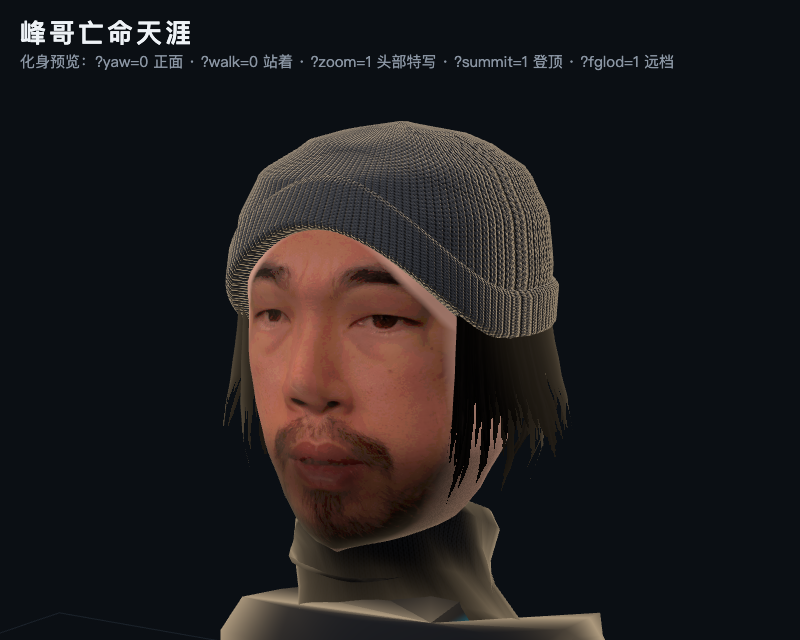
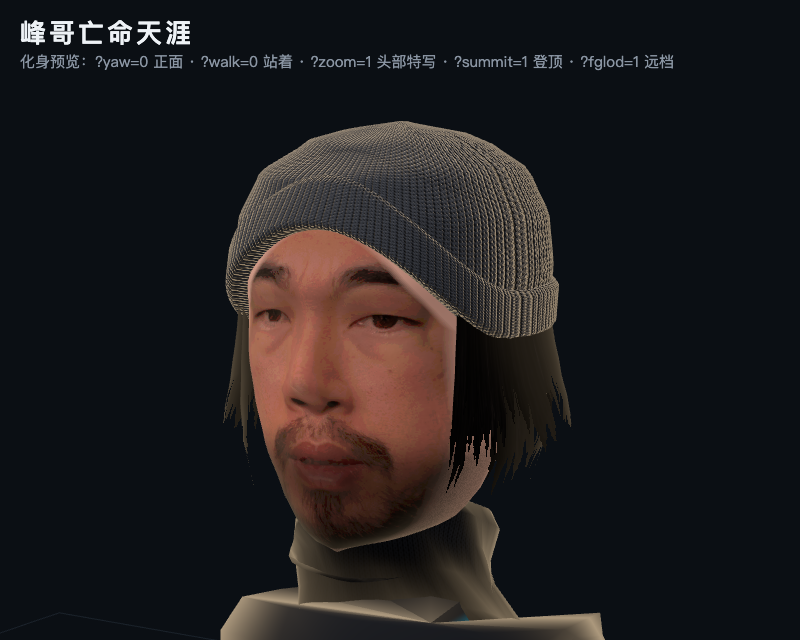
P 峰哥建模第 3 轮定稿：球球选 C（v2 改良）设为缺省——哑光材质、整张脸去饱和 35% + 6 阶色阶（照片和两侧肤色接得上、暖光下不发红），?fgstyle=v2 看旧的；删掉没选的 A / B 代码（留在 e1f2d23）；定稿截图 fengge_v3_C_*.png

diff --git a/docs/指挥板.md b/docs/指挥板.md
@@ -14,7 +14,7 @@
 | **V 峰哥语音** | `brain/tts.py`（新）、`shellos/agent/voice.py`（新）、`static/voice.js`（新）；`server.py` 只加 `/voice/*` 路由 | 峰哥解说（`App.fengge.last`）→ 语音播放；调研声音克隆方案（参考 YeJe-cpu/talk-to-fengge、w466747380/talk-to-fengge-live 的参考音频与方案），离线兜底 | ✅ **峰哥音色上线了**（总指挥 main 9c94e22）：主工作区 MiniMax 复刻成功，11 句兜底语录全部用 MiniMax 预生成（24 kHz）；`run.sh` 一起起 tts（8791），隧道多转了 8791；`game.html` 已引入 voice.js；端到端验证过（造山 → 兜底解说 → `/voice/last.wav` 回 24 kHz MiniMax 音频）。实时合成一句 4.2 / 7.8 / 10.2 s，MiniMax 超时定为 15 s，ShellOS 等 25 s。MiniMax 失败或断网时：本地缓存 → `say` 女声 → 不出声。**复刻做了两次（V 一次、总指挥一次），约 19.8 元** |
 | **C Claude 实测 + 部署** | `brain/claude_brain.py`、`shellos/agent/brain.py`、`shellos/agent/interpret.py`、`shellos/worlds/gen.py`、`scripts/eval_*.py`（新）、`brain/run.sh`（新） | 拿到 key 后实测：教练 23 句准确率 / 造山 10 句质量 / 延迟；调 prompt；本机大脑 + SSH 反向隧道到 MacBook 一键脚本；deploy 到 MacBook 联调 | **第 3 轮（merge main 之后，backend=minimax，全用 MiniMax-M3）**：**教练**最终版（提示词重写 + 温度 0.1）连跑 3 轮 × 36 句：23 句 23/23、23/23、22/23（失败的那 1 次是 MiniMax 超时两次 → 502，ShellOS 会退回规则表）；加试 7/7 ×3；**台阶 6 句** 5/6、4/6、6/6（最后一轮加了「下楼冲 / 砸 = impact，上楼费劲 = strength」的词表之后 6/6；台阶句的关键词因此进了提示词，已经不算完全没见过的题）；规则表在台阶句上 0/6。延迟 p50 1.7–2.3 s，p95 3.4–9.4 s，**超过 12 s 0 次**（加了 5 s 超时 + 重发 1 次；今天 MiniMax 抖得厉害，36 次里重发了 2–5 次）。**造山** 11 句（加了华山）：11/11 由模型生成，裁剪 2/11，p50 9.7 s，max 32.7 s，超过 20 s 的 2 次（加了 20 s 超时 + 重发；上一轮同一套 p50 7.0 / max 10.0，差别主要在 MiniMax 这一时段的负载）。华山 → dawn_mountain（cliff_path 还没到）。**峰哥**解说 1.0–3.9 s。**没退化**：合并后 23 句仍能全对。**impact**：terrain 加了参数 `impact` [1.0, 0, 1.5]，pulse_plot 在 strength 3.0 × impact 1.5 下检查 problems=[]（峰值按 CAP 裁到 3.0）。本轮约 310 次 live，约 ¥1.3（估算）。pytest 115 过，1 挂（同前，只在 worktree 里挂）。
 | **S 提交物 / 叙事** | `docs/提交/**`、README 的「项目介绍」段 | 改名峰哥亡命天涯；加蜂群（峰哥当年合伙的公司就叫「蜂群文化」）、一句话造山、峰哥解说；评委题库补：断网怎么办 / 安全员为何不用大模型 / 肖像与素材授权 | ✅ 第 6 轮（已 merge main 8215a79，未 push）：项目介绍 / 60 秒 / 4 分钟 / 题库 / 分镜 / 海报文案，另外 poster、onepager、README 开头段也跟上了。**手感**：上台阶 = 支撑期阻力（摆动期 0）、下台阶 = 落阶冲击 + 助力 + 摆动期帮迈腿，峰值按强度 3.0 / 软限 4 用 `terrain.pulse()` 算的（上坡 +3.0、下坡 −2.4、上台阶 −3.6、下台阶 −3.0 / +3.0 / −2.4、红灯 −1.5、lift −2.4 Nm）；`pulse_plot.py --strength 3.0`（CAP=4）重跑核对全过，新图 `截图/脉冲-上台阶-阻力.png`、`脉冲-下台阶-落阶冲击.png`，海报角图换掉了。**题库**加 D10 上楼为什么是阻力 / D11 落阶冲击会不会伤人 / D12 力波形是真的吗（答：是 Guard 发出的指令 `safety.sent`，不是测出来的力）；D9 改成「是捷风」：粉丝手办 Frojj123 CC BY 4.0、IP 属于 Riot 没授权、声音配音演员本人同意现场录（录音未到）。**4 分钟**主线不加跑酷 / 珠峰（时间不够），加「加演」表：珠峰走到北坳即可；跑酷真机没试通就只放模拟。60 秒正片不动结构，另列 15 s 花絮（珠峰 + 跑酷 + 捷风，角标「模拟」）。**大模型口径**：C 行说现在大脑跑的是 MiniMax-M3（Claude 等 key），材料里「教练 = Claude」都改成「大模型（Claude；没 key 时 MiniMax-M3）」，引 C 行实测（教练 23/23 p50 1.6 s、造山 p50 7.0 s、解说 0.9–2.2 s）。**要总指挥确认 / 处理**：① 软限 4 Nm、强度 3.0 仓库里没有出处（`--cap` 缺省 3、Terrain 缺省 1.5），材料写成「总指挥 9/23 转达」；**换人 / 演示复位会把强度重置回 1.5**（`demo_reset` 里 `Terrain()`），4 分钟脚本开场前清单加了「换完人调回 3.0」，建议改代码缺省或 run-mac.sh；② 经验卡 `source` MiniMax 也写 `claude`，建议改成 `llm` 或带模型名；③ README 正文安全表、架构 v3 还写软限 3 Nm / 旧台阶手感（不归 S）；④ `ui_play_force.png`、`游戏-东京天桥-v2.jpg` 是台阶反过来 / 新 HUD 之前拍的，要重拍。验收：printToPDF 海报两版各 1 页、一页纸两版各 2 页，逐页看过不截断 |
-| **P 峰哥建模**（分支 claude/vibrant-ritchie-f949b4） | `static/game/fengge.js`、`static/game/lod.js`（新，第 2 轮）、`tests/test_game_lod.py`（新）、`static/fengge.html`、`static/models/fengge_face_hd.jpg`（新）、`docs/提交/素材授权.md`（新，和 J 线那份表头一样，合并时两边的行拼起来）、`docs/提交/截图/fengge_v2_*.png`；**avatar.js / engine.js / fengge.html 都没改** | 峰哥在正面镜头（V / `?cam=front`）近景下好看、一眼认得出：立体头型、针织帽、胡子头发、户外穿搭，外骨骼保留 | ⏳ **第 3 轮 候选造型，等球球挑**（未 push）：球球说 v2「还是太丑」。三个候选都用 `?fgstyle=A|B|C` 切换，缺省还是 v2（`FENGGE_LOOK.style`），挑定后只改这一个值。骨骼、A2 的动作、LOD、登顶大拇指全都照旧。**A 平涂卡通**：照着照片手绘成扁平色块（眯眯眼、一字粗眉、八字胡连山羊胡、下巴一圈胡茬），和照片一样正投影贴上去；五官起伏减到 0.45，脸宽 ×1.08，头 0.29 m（Q 一点）。**B 低多边形雕塑**：平面着色，脸按块平涂；五官不画，做成贴在脸上的几何片（按脸面起伏逐点贴）；帽子、头发（发梢锯齿）、围脖、身体都是平面着色，和泰山松、岩石一个路子。近档只多 1.4k 三角（v2 / A / C 多 10.3k）。**C v2 改良**：还是照片，去饱和 30%、压成色阶，改成哑光材质。试过三阶卡通光（MeshToonMaterial）：背光面不变暗，泰山拂晓的暖光下 A 成了发光的橙色面具，所以 A / C 都用和身体一样的哑光（Lambert）。顺手按 ART 附录 A 把胸前青色压暗到 `#1d7d88`。**截图**：`截图/fengge_v3_candidates.png`（总览，每行 正面 / 30° / 侧面 / 走路 / 泰山正面镜头），单张在 `fengge_v3_{A,B,C}_{front,30,side,walk,game}.png`。**不理想**：预览页没有色调映射，脸偏橙，以游戏截图为准；B 的眼睛和眉毛近看是几块小黑片，远看才像；三个里没有一个做到「侧脸也像本人」，要等本人侧脸照片。<br>| ✅ **第 2 轮（未 push）**：① **LOD**：峰哥头 / 帽 / 头发造了两档，按头离镜头的距离切换（`THREE.LOD`，3.6 m，回差 10%）：正面镜头约 2.4 m 用近档（和 v2 一样，1.07 万三角），跟拍约 5 m、登顶环绕用远档（约 1.8k 三角）。30° 特写两档几乎看不出差别（`截图/fengge_lod.png`，左近右远），`?fglod=0/1` 可以固定用近档或远档。实测（`scripts/dom.mjs`，1920×1080，`npc=0`，面数按 dom.mjs 报的原样记，现在每帧要画两遍（光影线的后期），所以比 v2 那时大）：东京 pos 18 跟拍 +2.6k/帧（v2 是 +10.6k），泰山 pos 14 正面 +20.5k/帧；两处绘制次数和 `?fengge=0` 一样（149 / 106）。**捷风雕像**归 J，我只出了工具 `game/lod.js` 的 `simplify(geo, cell)`（顶点聚类，4.4 万三角 → 1.48 万三角，38–46 ms）和方案（见留言）。② **登顶「这是个好事儿啊」**：包一层 A2 的 animate（A2 同意由 P 维护），程度直接读 `av.body.P.cheer`：先点两下头，再多仰 6°、往一侧歪 8°；右臂把 V 字挥手换成**举在头侧的大拇指**。CesiumMan 的手是连指手套，没有手指骨，所以登顶时右手在着色器里藏掉，换成拳头 + 朝天的拇指；登顶镜头多从背后拍（泰山是定机位），举在头侧前后都看得见。照片嘴角往上挪约 7 px（很轻：怕真人脸变形）。顺手：手改成肤色（峰哥没戴手套），手腕上的深色小球藏了。截图 `截图/fengge_summit_front.png`、`fengge_summit_back.png`、`fengge_summit_game.png`（泰山登顶，从背后拍）。③ **v3 照片**：`data/fengge_photos/` 还没有照片，照片到了再做（后台在盯这个目录）。**踩坑**：v2 和这轮各有一次在 `FENGGE_LOOK` 一行中间插注释，把后面的颜色吞了（帽子 / 鞋变白），都在截图里发现后修了。<br>✅ **第 1 轮 v2（已合 main）**。**底模没换**，还是 CesiumMan，骨骼一根没加没改（名字 / 层级 / 绑定姿态原样）：A2 的动作是按 CesiumMan 骨骼名和逐根量过的转轴调的，换 Quaternius 这些都得重量，比赛前不值。把 A2 的 baf464a 临时叠上来跑过 `/game?…&cam=front`、`cam=side`：前倾、转头、围脖都正常（验完还原了，没带进分支）。**头**：放样几何（下巴到头顶 40 层截面 + 鼻梁 / 鼻翼 / 眼窝 / 眉弓 / 颧骨 / 嘴唇 / 下巴起伏），单位是参考照片的像素，照片（原图重新裁的 400×540，比旧的 272×384 清楚）按正前方正投影贴上去，五官自然对上；转开 60° 以上淡出成肤色 / 胡茬（带颗粒），后脑下半是发色。**帽子**：翻边 + 帽身，canvas 画的罗纹 V 字针脚（贴图 + 凹凸），帽檐线按照片（前额压到眉毛上方，两侧压过耳朵）。**头发**：帽子底下两侧 + 后脑两层发片，往下蓬、一绺一绺收尖（照片里就是齐下巴的头发撑在两边）。**围脖**：照片里的黑色抓绒围脖，挂脖子骨，转头不跟着转。**衣服**：包一层化身原来的分区材质：深灰速干衣 + 胸前 / 背后青色竖条纹 V 字拼色（照片里的户外打底衫，**没画任何 logo**）、袖子外侧青线、青色袖口、手套、深色长裤、登山鞋；身材沿法线鼓 0.4–1.2 cm。头放大到 0.25 m（身高的 1/5.8）、下巴压低 4 cm，不然正面镜头 2.4 m 外脸太小、脖子太长。**开销**（`scripts/dom.mjs`，1920×1080）：东京 pos 18 跟拍 73 次绘制 / 83.5k 三角形，`?fengge=0` 71 / 72.9k；泰山 pos 14 正面 49 / 243.9k vs 47 / 233.3k → **+2 次绘制、+10.6k 三角形**（v1 是 +3 / +4.4k），贴图多一张 400×540 + 两张 128² canvas；FPS 没在 M2 上测。**截图**（对比 `fengge_v2_compare.png`，左旧右新）：`fengge_v2_front / left30 / right30 / side / back.png`（`/fengge?zoom=1&walk=0&yaw=…`）、`fengge_v2_walk.png`（全身走路）、`fengge_v2_game_front.png`（`/game?preview=taishan_18pan&pos=14&cam=front`）、`fengge_v2_night_front.png`（东京 pos 18 正面，夜里脸看得清）。截图是无头 Chrome 按真实时间等 `data-ready` 再截的（swiftshader，内置浏览器面板没显示截不了）。**不理想**：照片是强光自拍，预览页里脸偏橙红；侧脸靠几何 + 肤色，耳朵被头发盖住没做；近看帽子针脚是规则的；东京的青色轮廓光把深色衣服整片染青，胸前拼色没白天明显 |
+| **P 峰哥建模**（分支 claude/vibrant-ritchie-f949b4） | `static/game/fengge.js`、`static/game/lod.js`（新，第 2 轮）、`tests/test_game_lod.py`（新）、`static/fengge.html`、`static/models/fengge_face_hd.jpg`（新）、`docs/提交/素材授权.md`（新，和 J 线那份表头一样，合并时两边的行拼起来）、`docs/提交/截图/fengge_v2_*.png`；**avatar.js / engine.js / fengge.html 都没改** | 峰哥在正面镜头（V / `?cam=front`）近景下好看、一眼认得出：立体头型、针织帽、胡子头发、户外穿搭，外骨骼保留 | ✅ **第 3 轮：球球选了 C（v2 改良），已设成缺省**（未 push）。球球说 v2「还是太丑」后做了三个候选：A 平涂卡通、B 低多边形雕塑、C v2 改良（总览 `截图/fengge_v3_candidates.png`）。球球挑了 C，A、B 的代码删了（见 git e1f2d23，要回头看用那个提交）。**C 的做法**：还是照片正投影，五官起伏减到 0.8，头 0.26 m，头 / 帽 / 头发 / 围脖都改成和身体一样的哑光材质（Lambert）。照片和两侧肤色混好之后，整张脸一起去饱和 35%、压成 6 阶色阶：脸不那么「照片」，和两侧肤色也接得上，泰山暖光下不再发红。`?fgstyle=v2` 能看回旧的。试过三阶卡通光（MeshToonMaterial）：背光面不变暗，暖光下整张脸成了发光的橙色面具，没用。顺手按 ART 附录 A 把胸前青色压暗到 `#1d7d88`。骨骼、A2 的动作、LOD、登顶大拇指都照旧。**定稿截图**：`截图/fengge_v3_C_front / 30 / side / walk / summit.png`（`/fengge` 预览）、`fengge_v3_C_game.png`（泰山 pos 14 正面）、`fengge_v3_C_night.png`（东京 pos 18 正面）。面数和 v2 一样（泰山正面比 `?fengge=0` 多 10.3k 三角，绘制次数不变）。**不理想**：转头还是能看出脸是贴上去的，侧脸只靠几何 + 肤色；要侧脸也像，得等本人侧脸照片（`data/fengge_photos/` 还是空的，后台在盯）。<br>| ✅ **第 2 轮（未 push）**：① **LOD**：峰哥头 / 帽 / 头发造了两档，按头离镜头的距离切换（`THREE.LOD`，3.6 m，回差 10%）：正面镜头约 2.4 m 用近档（和 v2 一样，1.07 万三角），跟拍约 5 m、登顶环绕用远档（约 1.8k 三角）。30° 特写两档几乎看不出差别（`截图/fengge_lod.png`，左近右远），`?fglod=0/1` 可以固定用近档或远档。实测（`scripts/dom.mjs`，1920×1080，`npc=0`，面数按 dom.mjs 报的原样记，现在每帧要画两遍（光影线的后期），所以比 v2 那时大）：东京 pos 18 跟拍 +2.6k/帧（v2 是 +10.6k），泰山 pos 14 正面 +20.5k/帧；两处绘制次数和 `?fengge=0` 一样（149 / 106）。**捷风雕像**归 J，我只出了工具 `game/lod.js` 的 `simplify(geo, cell)`（顶点聚类，4.4 万三角 → 1.48 万三角，38–46 ms）和方案（见留言）。② **登顶「这是个好事儿啊」**：包一层 A2 的 animate（A2 同意由 P 维护），程度直接读 `av.body.P.cheer`：先点两下头，再多仰 6°、往一侧歪 8°；右臂把 V 字挥手换成**举在头侧的大拇指**。CesiumMan 的手是连指手套，没有手指骨，所以登顶时右手在着色器里藏掉，换成拳头 + 朝天的拇指；登顶镜头多从背后拍（泰山是定机位），举在头侧前后都看得见。照片嘴角往上挪约 7 px（很轻：怕真人脸变形）。顺手：手改成肤色（峰哥没戴手套），手腕上的深色小球藏了。截图 `截图/fengge_summit_front.png`、`fengge_summit_back.png`、`fengge_summit_game.png`（泰山登顶，从背后拍）。③ **v3 照片**：`data/fengge_photos/` 还没有照片，照片到了再做（后台在盯这个目录）。**踩坑**：v2 和这轮各有一次在 `FENGGE_LOOK` 一行中间插注释，把后面的颜色吞了（帽子 / 鞋变白），都在截图里发现后修了。<br>✅ **第 1 轮 v2（已合 main）**。**底模没换**，还是 CesiumMan，骨骼一根没加没改（名字 / 层级 / 绑定姿态原样）：A2 的动作是按 CesiumMan 骨骼名和逐根量过的转轴调的，换 Quaternius 这些都得重量，比赛前不值。把 A2 的 baf464a 临时叠上来跑过 `/game?…&cam=front`、`cam=side`：前倾、转头、围脖都正常（验完还原了，没带进分支）。**头**：放样几何（下巴到头顶 40 层截面 + 鼻梁 / 鼻翼 / 眼窝 / 眉弓 / 颧骨 / 嘴唇 / 下巴起伏），单位是参考照片的像素，照片（原图重新裁的 400×540，比旧的 272×384 清楚）按正前方正投影贴上去，五官自然对上；转开 60° 以上淡出成肤色 / 胡茬（带颗粒），后脑下半是发色。**帽子**：翻边 + 帽身，canvas 画的罗纹 V 字针脚（贴图 + 凹凸），帽檐线按照片（前额压到眉毛上方，两侧压过耳朵）。**头发**：帽子底下两侧 + 后脑两层发片，往下蓬、一绺一绺收尖（照片里就是齐下巴的头发撑在两边）。**围脖**：照片里的黑色抓绒围脖，挂脖子骨，转头不跟着转。**衣服**：包一层化身原来的分区材质：深灰速干衣 + 胸前 / 背后青色竖条纹 V 字拼色（照片里的户外打底衫，**没画任何 logo**）、袖子外侧青线、青色袖口、手套、深色长裤、登山鞋；身材沿法线鼓 0.4–1.2 cm。头放大到 0.25 m（身高的 1/5.8）、下巴压低 4 cm，不然正面镜头 2.4 m 外脸太小、脖子太长。**开销**（`scripts/dom.mjs`，1920×1080）：东京 pos 18 跟拍 73 次绘制 / 83.5k 三角形，`?fengge=0` 71 / 72.9k；泰山 pos 14 正面 49 / 243.9k vs 47 / 233.3k → **+2 次绘制、+10.6k 三角形**（v1 是 +3 / +4.4k），贴图多一张 400×540 + 两张 128² canvas；FPS 没在 M2 上测。**截图**（对比 `fengge_v2_compare.png`，左旧右新）：`fengge_v2_front / left30 / right30 / side / back.png`（`/fengge?zoom=1&walk=0&yaw=…`）、`fengge_v2_walk.png`（全身走路）、`fengge_v2_game_front.png`（`/game?preview=taishan_18pan&pos=14&cam=front`）、`fengge_v2_night_front.png`（东京 pos 18 正面，夜里脸看得清）。截图是无头 Chrome 按真实时间等 `data-ready` 再截的（swiftshader，内置浏览器面板没显示截不了）。**不理想**：照片是强光自拍，预览页里脸偏橙红；侧脸靠几何 + 肤色，耳朵被头发盖住没做；近看帽子针脚是规则的；东京的青色轮廓光把深色衣服整片染青，胸前拼色没白天明显 |
 | **J 疾风 NPC**（追兵，致敬版） | `static/game/npc.js`（新，行为）、`static/game/npc_jifeng.js`（新，造型 / 特效）；`engine.js` 只加 import + 1 行 init；`brain/tts.py` 加 `voice` 参数 + `--npc`；`shellos/agent/voice.py` 加 `NPC_VOICE` / `NPC_LINES`、缓存分目录；`server.py` 加 `/voice/npc.wav`（在 `/voice/*` 里）；`docs/提交/素材授权.md`（新） | 原创风系追兵：跟在玩家身后，步频决定远近，走慢了冲刺逼近（前倾 + 拖尾 + 风刃 + 喊一句），走快了被甩开，红灯她也站定；登顶结局「抓到你了」/「被你甩掉了」；只读 /state，不碰任何控制接口；`?npc=0` 关 | **第 5 轮 · 捷风 STL 雕像接进游戏 ✅**：Sketchfab 要登录，没用。改用 Thingiverse thing:4326703（作者 Frojj123，CC BY 4.0，粉丝原创的 3D 打印手办，不是游戏提取），总指挥放在主工作区的 `models/jett/jett.stl`（已被 git 忽略）。① `vendor/STLLoader.js`：本机只有 three **0.169** 官方包里的 STLLoader（0.160 不在 npm 缓存里；为了一个文件下整个包就没下）。它引用的 BufferAttribute / BufferGeometry / Color / FileLoader / Float32BufferAttribute / Loader / Vector3 / SRGBColorSpace 在 r160 里都有，实测能正常解析。② 加载：先 `mergeVertices`（STL 每个三角形各存 3 个点，不合并的话法线是平的），Z 朝上转成 Y 朝上，缩放到化身身高、脚底落地；这个 STL 本来就面朝 +X，所以 `yaw = 0`（4 个角度截图确认过：站姿、双臂下垂、没有底座），再 `computeVertexNormals` 让表面平滑。③ 按区域烘顶点色：靴 < 8%、腿 < 54%、外套 < 80%，80–93.5% 里朝前的算脸（肤色），其余算头发（白）；36–56% 高度、离中线 > 0.19 的算手套（深色）。材质是 Lambert 加自发光打底 30%、再加菲涅尔轮廓光，东京夜景里看得清。边界都在 `npc_jifeng.js` 的 `STATUE` 表里，对着截图调过。④ 动作「风系飘行」：离地 7 cm 浮着，走的时候上下起伏 ±5 cm，停下来慢慢起伏 ±3 cm，再加一点呼吸（身高缩放 ±1.2%）；前倾 0.03，走的时候 +0.1，冲刺再 +0.32 rad；冲刺时拖尾拉长（历史点间距 5 → 15 cm，最长约 3.6）+ 风刃；追上的那一下绕一个 1 s 的小弧（往前 0.35 步、往玩家那边切 0.3、身体跟着转）再站定；登顶被甩时弯腰。优先级：`scene.gltf` → `jett.stl` → 原创造型，都没有也不会报错。⑤ 性能：+7 次绘制、+4.4 万三角（东京预览 84 次 / 7.7 万 → 91 次 / 12.2 万）。无头 Chrome 走 GPU 的帧率噪声太大（同样没有 NPC，两次分别是 30.1 和 45.6），看不出雕像带来的差别，所以**没抽稀**；展位 M2 上要是掉帧，再加载时抽稀，或者远处换原创造型。⑥ 截图 `docs/提交/截图/npc_jett_stl_*.png`：preview（东京天桥冲刺）、front（正面看配色）、slow_1~6（`--sim` 泰山 80 步/分：gap 2.50「가자」→ 1.45「就这？빨리빨리」→ 0.70 追上、绕弧、「回头看看？我在这儿。」）、fast_1~3（130 步/分：2.76 → 4.69 甩开「哟，跑挺快嘛。」）、summit（登顶抓到「又是我先到，拜。」）。⑦ 素材授权.md：模型那一行改成 Thingiverse / Frojj123 / CC BY 4.0、粉丝原创手办、角色 IP 属于 Riot、不进 git；Sketchfab 那一行写「未采用（要登录）」。<br>**第 4 轮 · 方案 A：改名「捷风」+ Sketchfab 模型（没用上，要登录）**：球球知情后决定推翻「原创致敬版」（总指挥转达）。① `角色名` 缺省改成「捷风」，代码注释里的疾风也都改了；文件名、变量名没动。② `.gitignore` 加了 `shellos/ui/static/models/jett/`（用占位文件验过会被忽略）。deploy.sh 的 rsync 没有读 .gitignore，只排除了 .git / .venv / recordings 这些，所以模型会同步到展位机。③ `npc_jifeng.js` 用 GLTFLoader 读 `/models/jett/scene.gltf`：缩放到化身身高、脚底落地、正面转到 +X，贴图顺便当自发光打底，夜景里不会黑成一团。骨骼按名字匹配（thigh / upleg / leg、calf / knee、upperarm / arm、spine、head），左右按绑定姿态的位置分，摆动轴换算到每根骨骼自己的局部坐标，不依赖骨架的命名和轴向；T 字姿势的上臂自动放下 70°。自带的格斗站姿在「追上后站定」和「登顶抓到」时播放。模型 404、坏文件或者找不到腿骨，都**静默退回原创造型**，页面不报错（验过：没有模型时是原创造型，errlog 空）。**用 CesiumMan 冒充外部模型（`?npcmodel=/models/CesiumMan.glb`）把通用骨骼匹配走了一遍**：侧面看跑步姿势方向正确，前倾、大腿前摆、小腿后折、手臂反向摆。调试参数：`?npcmodel=` 换模型、`?npcmodel=0` 强制原创、`?npcyaw=` 修正朝向。⚠ 服务器 `_static` 给 .gltf / .png / .bin 回的是 application/octet-stream，按理不影响 GLTFLoader 解码，模型到了再实测。④ 素材授权.md 照实改了：模型来自 BojanV06（标 CC-BY，原始 IP 属于 Riot，很可能是游戏提取），球球知情后用于非商业黑客松展示，不进 git、不公开分发；角色名「捷风」属于 Riot 的 IP；原创造型只做退路。语音那一行来源不变，只把「外形和名字仍然原创」这句过期的说法改掉了。录音台词单里的同意示范句也改成了「角色『捷风』」。⑤ 「名字写错了」：等总指挥问清楚是角色名还是配音演员名（J 线的文件里没写配音演员的名字）。<br>**第 3 轮 · 配音演员本人现场录（等录音）**：本人当面同意（总指挥转达，记在留言里）。界限：只用本人**现场新录**的声音，不用游戏音频，不念游戏原台词；外形和名字仍然原创。① 录音台词单 `docs/提交/疾风录音台词单.md`（已发总指挥转球球）：原来的 6 句 + 新写的 5 句（被甩开 2「喂！我还没热身呢。」、追上 2「回头看看？我在这儿。」、红灯一起停「红灯。站好，我也不动。」、绿灯「绿灯了，가자！」、登顶嘲讽「山顶风大，站稳了。」），每句标了情绪，再加 30–60 s 自由说话；录音要求和同意视频的提醒都写在里面。② 接收：`brain/npc_intake.py` 读主工作区 `data/voice/npc_raw/`（`01~11.*` 一句一个文件，或者整段录、按 ≥0.9 s 的停顿切；`free.*` 是参考音频），用 ffmpeg 解码，按停顿切句、取最后一遍、去掉首尾静音，响度归一到 RMS −18 dBFS、峰值 ≤ −1 dBFS，输出 24 kHz 单声道 16 bit，放进 `data/voice/npc/real/`；每一段另存到 `npc_takes/`，自动挑的不满意可以用 `--use 09 <文件>` 换。`free.*` 转成 `data/voice/ref/jifeng_ref.m4a`。`/voice/npc.wav` **真人录音优先**，没有的再合成。已经有复刻 ID（`data/voice/npc_voice_id`）就用复刻音色，没有才用预设候选。③ 复刻：`tts.py --clone-npc`（9.9 元，**问过球球、确认后才跑**；`clone()` 改成可以传参考音频 / ID 文件 / 前缀，峰哥的行为不变）。游戏里 LINES 改成一个事件可以有好几句、随机挑一句，新增红灯 / 绿灯事件。用 `say` 生成的假录音走通了一遍：整段两遍切成 2 段、用最后一遍，输出 24 kHz / 1 ch / Int16，参考音频 16 s → m4a。test_voice 14 过（新增：真人优先不再合成；切句 + 归一化 + 输出格式）。素材授权.md 已写明「本人当面同意、现场新录、不是游戏素材」。<br>**第 2 轮 · 音色候选（等球球挑）**：第一版「清脆少女」球球说一点都不像。界限没变：不复刻捷风中文配音（真人）、不用游戏音频。从官方系统音色（国内站 get_voice 拉的 303 个）里挑了 4 个，都调了语速 / 音高 / 情绪：**A 嚣张小姐** `Arrogant_Miss`（1.2 / +1 / happy）、**B 韩语冷漠女孩** `Korean_ColdGirl`（1.25 / +1 / disgusted）、**C 韩语女冒险家** `Korean_BraveAdventurer`（1.25 / +2 / angry）、**D 俏皮萌妹** `qiaopi_mengmei`（1.3 / −1 / surprised）。台词重写成嘴欠刺客味，原创，夹通用韩语感叹词：가자！你先跑三秒。/ 就这？빨리빨리！/ 逮到了，慢死了。/ 哟，跑挺快嘛。/ 又是我先到，拜。/ 啧，算你走运。试听用其中 4 句，每个候选同样 4 句，一共 16 条全部成功，200 计费字符（约 $0.02）。文件在主工作区 `data/voice/npc_candidates/<候选名>/1~4.wav`（不进 git）。试听：`cd data/voice/npc_candidates && for d in */; do echo "== $d"; for f in "$d"*.wav; do afplay "$f"; done; sleep 1; done`。**选定后**：`voice.py` 里 `NPC_VOICE` 的缺省改成那个候选名，再跑 `brain/tts.py --npc`，只有 2 句要新合成，另外 4 句试听时已经进了缓存。在那之前，缺省还是清脆少女，新台词会现场合成。代码改动：`voice` 参数可以传完整的 voice_setting 字典（tts.py 只收 voice_id / speed / pitch / vol / emotion 这几个字段），带 NPC 音色时 `language_boost=auto`；`tts.py --npc-candidates`；新增测试 1 条（字段透传、auto、参数不同缓存分开），test_voice 13 过。<br>✅ 第 1 轮：分支 `claude/recursing-gould-f7e62a`（未 push、未合 main）。**造型**：复用 CesiumMan 换装（深蓝腿、蓝外套、白头）+ 往后吹的白发（6 个锥，合成一个网格）+ 白色高领，冲刺时 3 条加色拖尾 + 两道绕腰的月牙风刃，「抓到」时脚下一圈风环。没用 Quaternius：多一个 glb，骨骼名不一样，pose 接不上。角色名是 `npc_jifeng.js` 顶上的 `角色名` 常量（缺省「疾风」，也可以临时 `?npcname=`）。**行为**（`npc.js` 顶上的 `NPC` 表）：落后 gap 步，起始 2.5；走的时候 gap 每秒变化（步频 − 100）/ 40 步；站着不走（不是红灯）每秒贴近 0.4 步；**红灯 gap 冻住**、不冲刺、不喊；gap ≤ 0.7 算追上，≥ 4.5 算甩开（她藏到镜头后，左下角留「疾风 ↓ 落后 N 步」）；登顶时 gap < 3 →「抓到你了」，她冲到玩家左后侧 + 风环，否则「被你甩掉了」，停在原地弯腰喘气；登顶卡收起后 gap 回到 2.5。她走左侧路沿（横向 +0.85），不和右边的影子叠在一起。距离按真实时间积分，掉帧也不会追得慢。**声音**：MiniMax 系统预设音色 `Chinese (Mandarin)_Crisp_Girl`（官方系统音色列表里的，不是复刻，不花 9.9），台词原创 6 句：风起了 / 别停 / 追上你了 / 等等我 / 抓到你了 / 被你甩掉了；`/voice/npc.wav?t=` 只念这 6 句白名单，别的回 204；缓存 `data/voice/npc/`，和峰哥的分开。在主工作区 brain 目录用 `brain/.env` 的 key 真跑了一次 `tts.py --npc`：6 句全部成功，42 个计费字符，每句 1.0–1.3 s，wav 已经放进主工作区 `data/voice/npc/`（deploy 时跟着 data/voice 一起同步）。?voice=0 静音，预览不出声。**验收**：`pytest` 108 过 1 挂（worktree 里没有录制文件的那条 stress，和以前一样；新增 2 条：白名单 + 分目录缓存、预设音色不需要复刻）。截图（1080p，无头 Chrome 走 Metal GPU，swiftshader 一帧要 40–90 s，没法连拍）在 `docs/提交/截图/`：`npc_preview.png`（东京天桥、冲刺、「别停」）；`--sim` 泰山 80 步/分 `npc_sim_slow_1~3`（gap 2.50「风起了」→ 1.67「别停」→ 0.70「追上你了」，从起步到追上 5.8 s）；130 步/分 `npc_sim_fast_1~3`（3.37 → 4.80「等等我」→ 5.50 甩开，3.7 s 甩开）；东京红灯 80 步/分 `npc_sim_red_1~2`（第 4 步红灯站住，gap 1.39 连续 7 s 不变）；`npc_summit_caught.png` / `npc_summit_shaken.png`（登顶两种结局）。**性能**：东京预览加 NPC 前后是 84 → 93 次绘制，77.3k → 82.5k 三角形（+9 次、+5.2k）。`?npc=0` 时没有 NPC 也没有标签（验过）。**没做到**：A2 的动画没接（接口写在下面的留言里）；红灯时她停在路左侧，镜头在左后方，偶尔会挡住化身的一部分；登顶环绕镜头下她的名字牌位置是按头顶投影算的，离得近时会偏高 |
 | **R 跑酷**（球球的屋顶跑酷，分支 claude/distracted-darwin-3d3c88） | `static/parkour.html`、`static/parkour/**`（`logic.js` 纯逻辑 / `city.js` 场景 / `main.js`）、`tests/test_parkour.py`（新）；`server.py` 只加 `/parkour` 路由 + `/parkour/` 静态前缀（3 行） | 独立新页 `/parkour`：第三人称跟跑 · 夜里城市屋顶 · 峰哥 · 无尽模式撞 3 次结束（球球 9/23 选的都是推荐项）。步频 = 跑速，高抬腿 = 跳，双腿下蹲 = 滑铲，键盘 ←→ 换道；疾风在后面追 | **v1 能玩，未 push**。**玩法**：3 条道，楼缝 / 空调外机（跳）、晾衣杆（蹲）、水箱（换道）、斜板上更高的楼；步频 → 速度 0.075 m/s 每步/分（100 → 27 km/h，200 封顶 54 km/h）；疾风开局站你身边喊「가자！你先跑三秒。」，3 s 后开追，速度随距离涨（1000 m 时 ≈ 步频 137），追上算撞一次；高抬腿或回车再来一局，最好成绩存 localStorage。**腿**：屈髋减 A2 学出的零点（`av.body.off`），一条腿 > 45° 且还在抬、另一条 < 30° = 跳；两条都 > 35° = 滑铲；走满 5 s 才开（零点没学出来前穿戴偏屈 15–20°，会误触发）。阈值在 `logic.js` 的 `TUNE`，现场可以用 `?jump=&slide=&vjump=` 调。node 测试：正常走路 20 s 0 次误触发。**腿上的力**：只调 `POST /terrain/force`：斜板 = `up`，落地 0.5 s = `down`，前方 0.9 s 内要跳 = `lift`（只在摆动期帮抬腿；9/23 台阶力反过来后从 `stairs_up` 换过来），其余 null；非 null 带 ttl 1 s、每 300 ms 续；大小仍归 Guard + R2。页面失焦 / 隐藏 / 关掉 / 一局结束 / 没开跑都回 null（实测失焦 2 ms、切走 39 ms 服务端就是 null）。**没兜住**：浏览器崩了（SIGKILL，pagehide 不触发）force 会留在最后那个值，见留言。**验收**：`--sim` 自动驾驶（`?auto=0.95`，每个障碍 95% 躲）完整一局 126 s / 1203 m，连拍 9 张 `docs/提交/截图/parkour_01_title` … `parkour_09_over.png`（开场 → 跳 → 换道 → 滑铲 → 跑 → 疾风逼近 → 撞 1 / 撞 2 → 被疾风抓住），这局 force 出现过 null / up / stairs_up / down（当时起跳前用的还是 stairs_up，现在换成 lift）。**性能**：这台开发机是 2017 款 AMD Radeon Pro 555（没有 M2 可测），无头 Chrome 走 Metal、1920×1080：**60 fps（到顶）**，`?fx=low` 也是 60；绘制 ≤ 102 次、≤ 3 万三角。最大的坑是 HUD 面板的 `backdrop-filter: blur`（34 → 60 fps 就差它），已去掉；fx=low 降分辨率到 0.75 反而更慢，改成只关抗锯齿 + 远景楼减半。pytest 114 过（worktree 缺 `data/recordings/synthetic-walk.csv`，那条 stress 借主工作区的文件软链后才过，和以前一样）。**没做**：真机没穿过，高抬腿 / 下蹲阈值只按 A2 录制的量级估的；没有峰哥解说 / 金币 / 排行榜 |
 | **L 光影** | `static/game/lighting.js`（新）、`static/vendor/postprocessing/`、`static/vendor/shaders/`（three 0.160 官方包原样拷，不走 CDN）；`engine.js` 只动 3 处（import、渲染器 antialias 那行 + `makeLighting()`、`renderer.render` → `lit.render(ctx, A, s, summit)`） | 电影感光影 + 守住帧率 | ✅ **主题文件一行没改**，按 `theme.style` 在 lighting.js 里配。**管线**：场景照旧在着色器里编码成 sRGB 写进半浮点 4×MSAA 目标（半透明的雾、雨、影子照旧在 sRGB 空间混合，主题调好的样子不变）→ 泛光（阈值按最亮通道，霓虹 / 灯 / 日轮过线、白衣化身不糊）→ 光束（有 `sunGlow` 的泰山 / 富士山，滤色叠加，只提亮剪影边）→ 最后一道：解码 → 曝光 + ACES（每主题白点，白天主题 1.0–1.3，不然云和日轮会被压成一团灰）→ 冷暖分离 / 暗角 / 抖动。**阴影**：太阳 PCF 软阴影，阴影盒 ±13 跟着化身前方 4 走（按贴图像素对齐不闪），投影 = 不透明、吃雾、半径 < 30 的网格 + 所有实例化网格 + 化身；路面、地面只接影。**分主题**：东京湿路面挂画出来的霓虹环境图（水洼反得多，0 次额外绘制）、冷暗暖亮；泰山逆光 + 光束 + 暖色轮廓；富士山按爬升进度把曝光 / 白点 / 泛光 / 调色 / 化身轮廓光从星空（冷）过渡到御来光（暖）；梧桐山石阶补接影（原来是定色材质）+ 林荫光斑 + 影子里留 50% 天光；训练场暗部略提。**开关**：`?fx=high`（缺省）/ `mid` / `low` / `off`（off = 原来的直出）；单项 `?bloom=0 ?shadow=0\|1024\|2048 ?rays=0 ?grade=0 ?tm=aces\|agx\|none ?exp=1.2 ?aa=0`；缺省连续 4 s < 45 fps 自动降一级（光束 → 阴影 2048 → 1024 → 关 → 泛光），`?auto=0` 关；调试 `__lighting.info()`。**帧率**（展位 MacBook 实测，**它是 M2 Pro 不是 M2**；1920×1080、无头 Chrome 走 Metal、关垂直同步取 6 s 平均；离线预览，另起的 `--sim` 8878，测完关了）：东京 pos 6 off 561 / low 314 / mid 230 / high 172；泰山 pos 24 603 / 349 / 162 / 164；富士 pos 6 638 / 390 / 221 / 162；梧桐 pos 10 404 / 219 / 230 / 184；训练场 pos 6 689 / – / – / 216（low / mid 两次都没加载出来，见留言）。开垂直同步时东京 high 60.0 = 顶格。缺省 high 最低 162 fps，普通 M2（GPU 约一半）估计也 ≥ 80，没实测。开发机 Intel 无头 1280×720（负载 45）：off 40–57，high 22–34。**截图**（前 = `?fx=off`，后 = 缺省）：`docs/提交/截图/light_cyber_night.png`、`light_dawn_mountain.png`（含登顶）、`light_night_to_dawn.png`（pos 6 / 22 / 30 / 登顶）、`light_subtropical.png`、`light_grid.png`；5 个主题 + 实时 /game 三档都 0 报错。**不理想**：泰山两处比原来暗一点（拂晓调子）；泰山登顶日轮比原来淡；梧桐山路边没有树冠，「树影」主要靠光斑图案 + 护栏影，真树影落不到石阶上；每帧绘制 +50～70（阴影一遍 + 后期约 15 次） |
